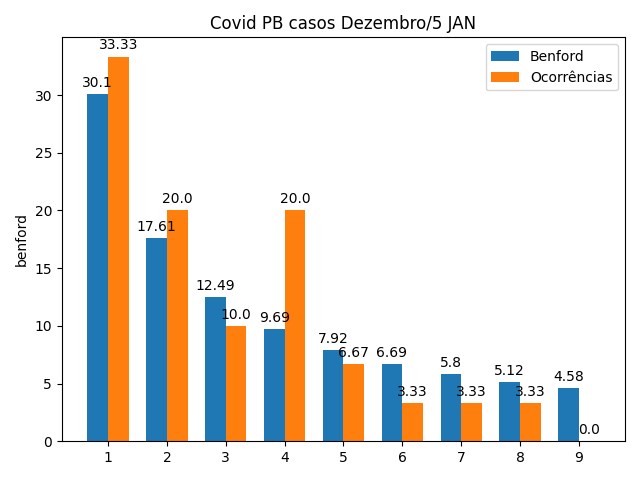
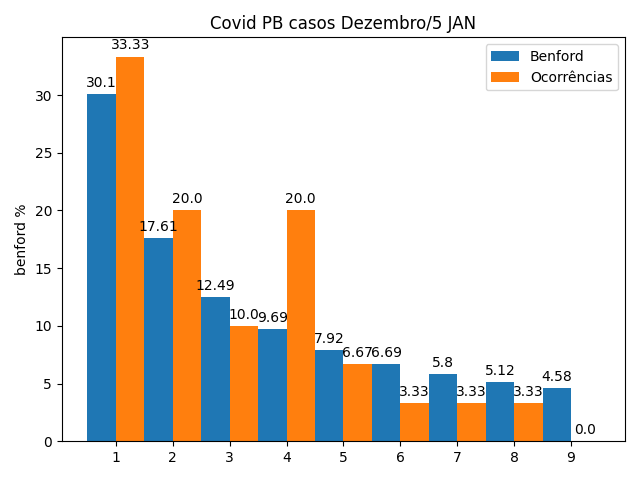
adicao de comentarios e algumas correcoes

diff --git a/main.py b/main.py
@@ -5,7 +5,9 @@ import numpy as np
 import math
 
 '''
-3-  nov = 2018
+
+Casos de Covid em pato branco - PR (n[i] - n[i-1]) = novos casos, desconsiderando n[0] - ...
+30 -  nov = 2018
 1-  dez =  2123
 2 - dez =  2164
 3 - dez =  2234
@@ -37,11 +39,13 @@ import math
 29 - dez = 3205
 5 - jan =  3338
 
+lista
 [0, 2018, 2123, 2164, 2234, 2282, 2407, 2417, 2443, 2561, 2622, 2654, 2704, 2720, 2749, 2779, 2863, 2889, 2915, 2960, 3002, 3021, 3047, 3067, 3086, 3103, 3136, 3140, 3155,3160, 3205, 3338]
 
 
 '''
 
+# exemplo de como incluir label no retângulo do gráfico 
 def autolabel(rects):
     """Attach a text label above each bar in *rects*, displaying its height."""
     for rect in rects:
@@ -52,14 +56,17 @@ def autolabel(rects):
                     textcoords="offset points",
                     ha='center', va='bottom')
 
+# lista do total de casos, iniciando em 30 de novembro de 2020
 x = [2018, 2123, 2164, 2234, 2282, 2407, 2417, 2443, 2561, 2622, 2654, 2704, 2720, 2749, 2779, 2863, 2889, 2915, 2960, 3002, 3021, 3047, 3067, 3086, 3103, 3136, 3140, 3155,3160, 3205, 3338]
 
+# inicializacao da lista de objetos que serao submetidos ao teste
 laws = []
 laws.append({
+    # indice (1, 2, 3, 4, 5, 6, 7, 8, 9), count: quantas vezes aparecem na populacao, law -> percentual benford do indice em questao, perc: percentual do indice na populacao
     'index': 0, 'ct': 0, 'law': 0.0, 'message': '', 'perc': 0.0
 })
 
-# inicializa lista
+# inicializa lista com seus indices e os percentuais de referencia
 for i in range(1, 10):
     d = float(i)
     l = math.log10(1 + (1/d))
@@ -69,14 +76,15 @@ for i in range(1, 10):
     'index': i, 'ct': 0, 'law': l, 'message': '', 'perc': 0.0
 })
 
-# realiza a contagem
+# realiza a contagem dos dados na populacao
 nant = 0
 totalOccurs = 0
 for n in x:
-    nr = n - nant
-    if nr > 1000:
+    if nant == 0:
         nant = n
+        print ('descartado o primeiro numero ' + str(n))
         continue
+    nr = n - nant
     ndx = int(str(nr)[0])
     laws[ndx]['ct'] += 1
     totalOccurs += 1
@@ -87,7 +95,8 @@ labels = []
 lawBars = []
 realbars = []
 x = np.arange(len(laws)-1)
-width = 0.35  # the width of the bars
+
+width = 0.50 
 
 for o in laws:
 
@@ -99,7 +108,7 @@ for o in laws:
     lawBars.append(round(o['law']*100,2) )
     realbars.append(round(o['perc']*100, 2))
 
-matplotlib.use('Agg') # no UI backend
+matplotlib.use('Agg') # sem UI
 
 
 fig = plt.figure()
@@ -112,13 +121,16 @@ print(realbars)
 rects1 = ax.bar(x - width/2, lawBars, width, label='Benford')
 rects2 = ax.bar(x + width/2, realbars, width, label='Ocorrências')
 
+
+# --- retirado de um exemplo da matplotlib --- Adicao de títulos e lavels na imagem
 # Add some text for labels, title and custom x-axis tick labels, etc.
-ax.set_ylabel('benford')
+ax.set_ylabel('benford %')
 ax.set_title('Covid PB casos Dezembro/5 JAN')
 ax.set_xticks(x)
 ax.set_xticklabels(labels)
 ax.legend()
 
+# --- retirado de um exemplo da matplotlib --- como colocar labels em cada retângulo
 autolabel(rects1)
 autolabel(rects2)
 

diff --git a/README.md b/README.md
@@ -1,1 +1,28 @@
-Brincando com a lei de benford em casos aleatórios
+Brincando com a lei de benford em casos aleatórios, obtendo o primeiro digito mais significativo dos números,
+de uma sequência qualquer (No caso, os novos casos de covid de pato branco - Paraná, em dezembro de 2020) e aplicando a regra
+
+log10(1 + 1/k)
+
+onde k é o digito em questão.
+
+numa ordem:
+
+___ k___________________b(k)____
+ 1                   0.3010
+ 2                   0.1761
+ 3                   0.1249
+ 4                   0.0969
+ 5                   0.0792
+ 6                   0.0669
+ 7                   0.0580
+ 8                   0.0512
+ 9                   0.0458
+Soma                 1.0000 
+
+Quanto mais aproximada é a proporção da população de dados, mais compatível à lei ela é.
+
+
+
+
+
+
